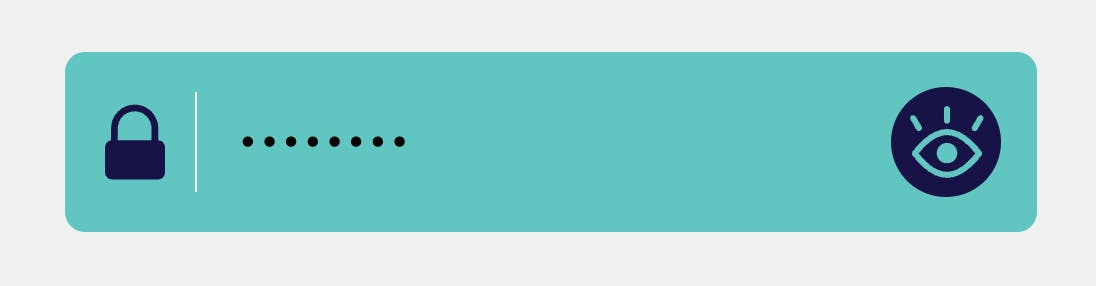
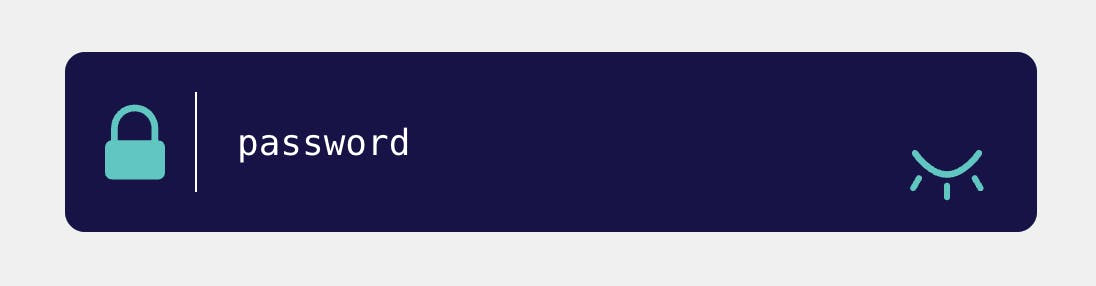
add stylized TogglePasswordInput

diff --git a/src/pages/password-input/src/components/Eye.tsx b/src/pages/password-input/src/components/Eye.tsx
@@ -1,0 +1,52 @@
+function Eye({ open, color }: { open: boolean; color: string }) {
+  return (
+    <svg
+      width="110"
+      height="107"
+      viewBox="0 0 110 107"
+      fill="none"
+      xmlns="http://www.w3.org/2000/svg"
+      className="eye"
+    >
+      <path
+        d="M105 71C105 71 82.6142 102 55 102C27.3858 102 5 71 5 71"
+        stroke={color}
+        stroke-width="10"
+        stroke-linecap="round"
+      />
+      <path
+        d="M70 70C70 78.2843 63.2843 85 55 85C46.7157 85 40 78.2843 40 70C40 61.7157 46.7157 55 55 55C63.2843 55 70 61.7157 70 70Z"
+        fill={color}
+      />
+      <path
+        d="M105 70C105 70 82.6142 39 55 39C27.3858 39 5 70 5 70"
+        stroke={color}
+        stroke-width="10"
+        stroke-linecap="round"
+      />
+      <path
+        d="M54.9999 22.5V5.5"
+        stroke={color}
+        stroke-width="10"
+        stroke-linecap="round"
+        stroke-linejoin="round"
+      />
+      <path
+        d="M91 34.9707L100.686 21"
+        stroke={color}
+        stroke-width="10"
+        stroke-linecap="round"
+        stroke-linejoin="round"
+      />
+      <path
+        d="M9.00049 20.9996L18.6856 34.971"
+        stroke={color}
+        stroke-width="10"
+        stroke-linecap="round"
+        stroke-linejoin="round"
+      />
+    </svg>
+  )
+}
+
+export default Eye

diff --git a/src/pages/password-input/src/components/TogglePasswordInput.css b/src/pages/password-input/src/components/TogglePasswordInput.css
@@ -1,0 +1,71 @@
+.TogglePasswordInput {
+  background: rgb(84, 199, 187);
+  color: rgb(16, 16, 30);
+  border-radius: 10px;
+  padding: 20px;
+  width: min(90vw, 400px);
+  aspect-ratio: 20 / 4;
+
+  position: relative;
+  top: -30vh;
+  left: 50%;
+  transform: translateX(-50%);
+
+  & .elements {
+    display: flex;
+    justify-content: space-between;
+    align-items: center;
+
+    position: absolute;
+    left: 20px;
+    top: 20px;
+
+    width: 90%;
+
+    z-index: 10;
+  }
+
+  & .lock,
+  & .eye {
+    height: 40px;
+    width: 40px;
+    aspect-ratio: 1;
+  }
+
+  & .lock {
+    border-right: 1px solid white;
+    padding-right: 10px;
+  }
+
+  & .password {
+    margin-left: 10px;
+    border: none;
+    outline: none;
+    background: none;
+    flex-grow: 1;
+
+    &::placeholder {
+      color: white;
+    }
+  }
+
+  & .toggle {
+    background: none;
+    border: none;
+    outline: none;
+    padding: 0;
+    margin: 0;
+    cursor: pointer;
+  }
+
+  & .background {
+    height: 50px;
+    width: 50px;
+    background: #171546;
+    border-radius: 50%;
+
+    position: absolute;
+    right: 15px;
+    top: 15px;
+  }
+}

diff --git a/src/pages/password-input/src/components/Lock.tsx b/src/pages/password-input/src/components/Lock.tsx
@@ -1,0 +1,21 @@
+function Lock({ color }: { color: string }) {
+  return (
+    <svg
+      width="86"
+      height="112"
+      viewBox="0 0 86 112"
+      fill="none"
+      xmlns="http://www.w3.org/2000/svg"
+      className="lock"
+    >
+      <path
+        fill-rule="evenodd"
+        clip-rule="evenodd"
+        d="M41 10H45C58.8071 10 70 21.1929 70 35V53L16 53V35C16 21.1929 27.1929 10 41 10ZM6.0096 53.8279C6.00321 53.5527 6 53.2767 6 53V35C6 15.67 21.67 0 41 0H45C64.33 0 80 15.67 80 35V53C80 53.2767 79.9968 53.5527 79.9904 53.8279C83.5273 55.3688 86 58.8956 86 63V102C86 107.523 81.5229 112 76 112H10C4.47715 112 0 107.523 0 102V63C0 58.8956 2.47266 55.3688 6.0096 53.8279Z"
+        fill={color}
+      />
+    </svg>
+  )
+}
+
+export default Lock

diff --git a/src/pages/password-input/src/components/TogglePasswordInput.tsx b/src/pages/password-input/src/components/TogglePasswordInput.tsx
@@ -1,0 +1,24 @@
+import "./TogglePasswordInput.css"
+
+import Lock from "./Lock"
+import Eye from "./Eye"
+import Background from "./Background"
+
+function TogglePasswordInput() {
+  return (
+    <div className="TogglePasswordInput">
+      <div className="elements">
+        <Lock color={"#171546"} />
+        <input type="password" className="password" placeholder="password" />
+
+        <button className="toggle">
+          <Eye open={true} color={"#60c6c2"} />
+        </button>
+      </div>
+
+      <Background />
+    </div>
+  )
+}
+
+export default TogglePasswordInput

diff --git a/src/pages/password-input/PasswordInput.css b/src/pages/password-input/PasswordInput.css
@@ -1,4 +1,21 @@
 .PasswordInput {
-  min-height: 100vh;
-  background: darkolivegreen;
+  --bg-color: #698662;
+  --white-color: #f0f0f0;
+
+  height: 100vh;
+  width: 100vw;
+
+  background: var(--bg-color);
+  color: var(--white-color);
+  position: absolute;
+
+  .cover {
+    max-height: 90vh;
+    width: auto;
+
+    position: relative;
+    top: 0;
+    left: 50%;
+    transform: translateX(-50%);
+  }
 }

diff --git a/src/pages/password-input/index.tsx b/src/pages/password-input/index.tsx
@@ -1,9 +1,14 @@
+import TogglePasswordInput from "./src/components/TogglePasswordInput.tsx"
+
+import cover from "./src/img/cover.png"
+
 import "./PasswordInput.css"
 
 function PasswordInput() {
   return (
     <div className="PasswordInput">
-      <input type="password" />
+      <img className="cover" src={cover} alt="cover" />
+      <TogglePasswordInput />
     </div>
   )
 }

diff --git a/src/pages/password-input/src/components/Background.tsx b/src/pages/password-input/src/components/Background.tsx
@@ -1,0 +1,7 @@
+function Background() {
+    return (
+        <div className="background" />
+    )
+}
+
+export default Background
